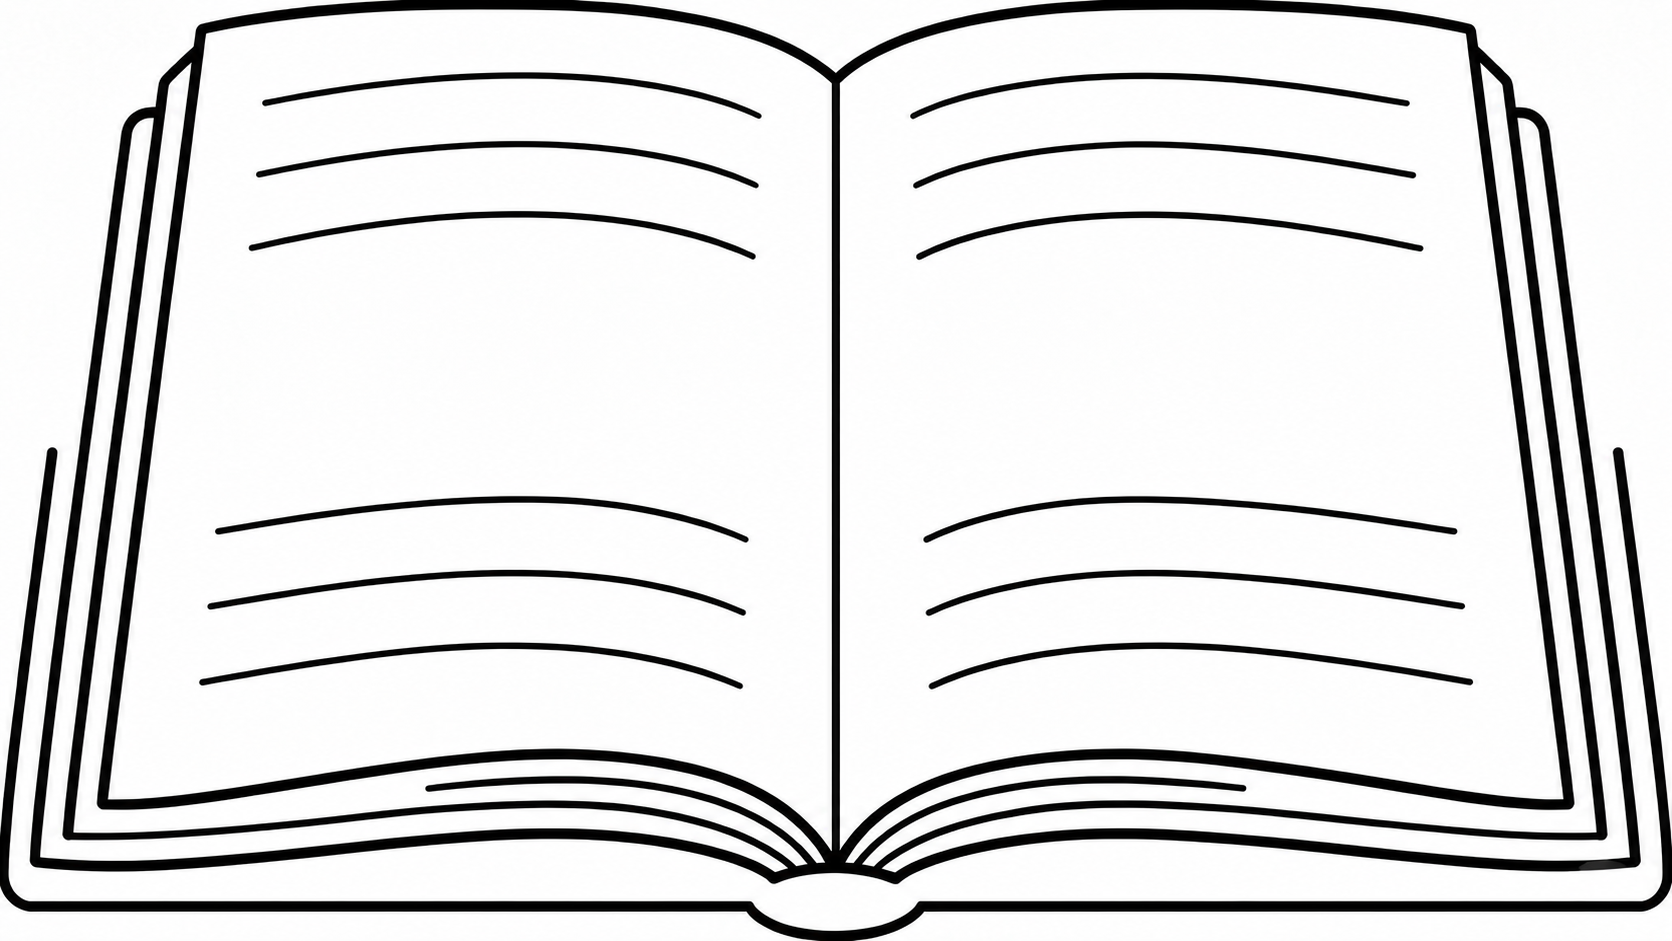
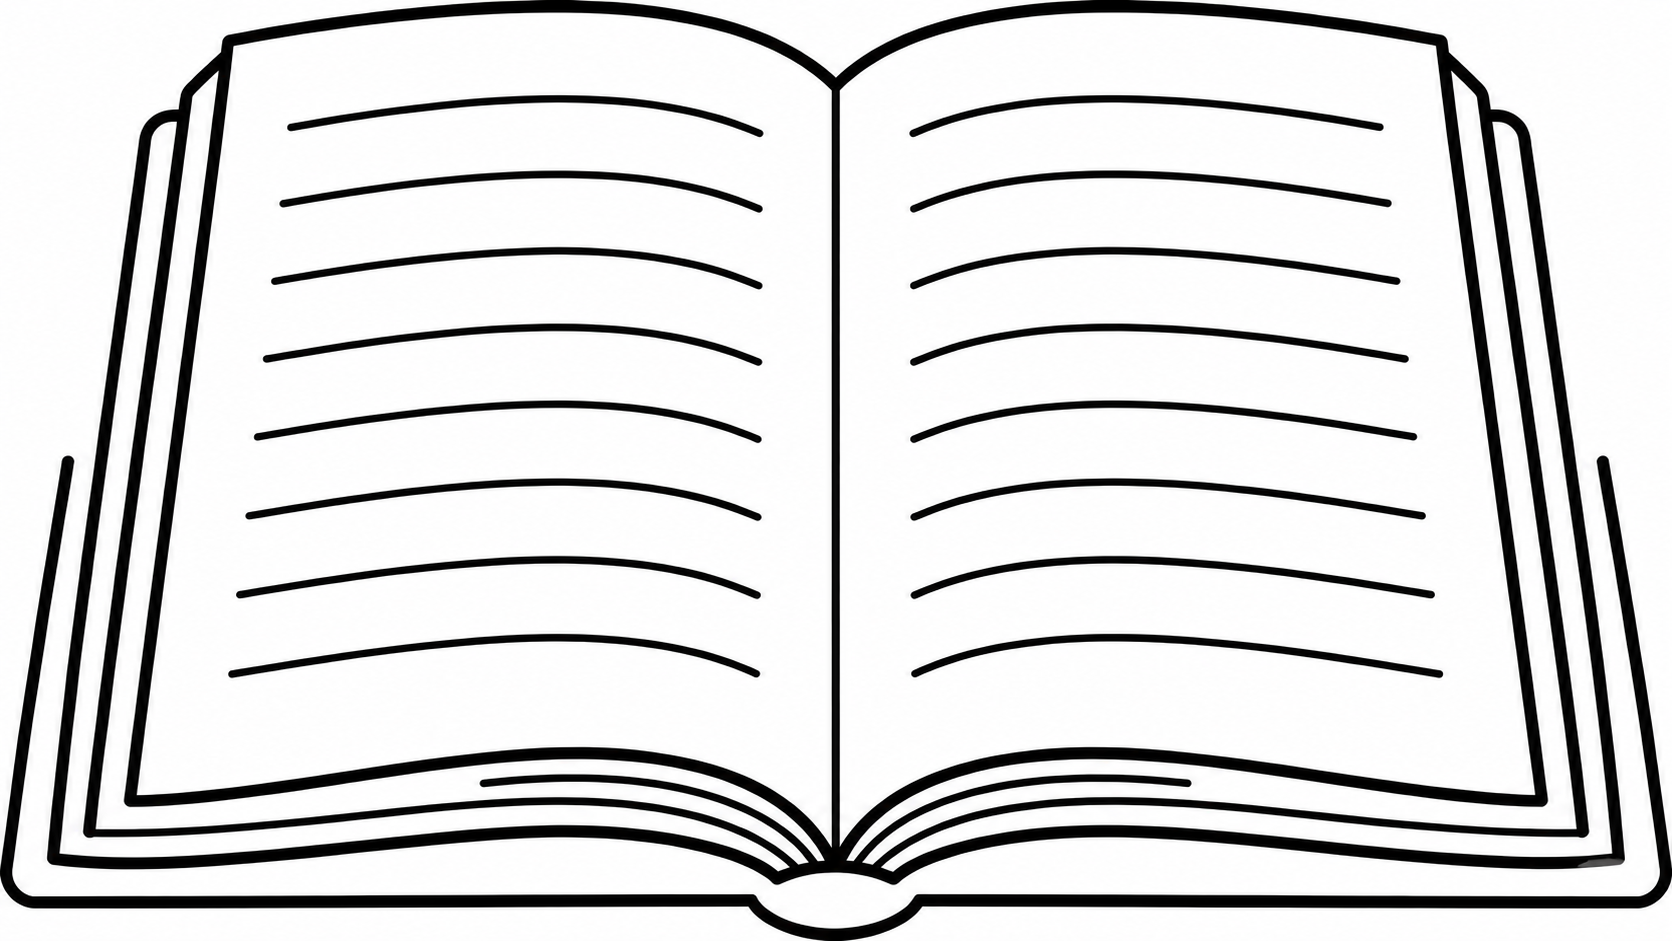
add video and audio image show

diff --git a/src/components/pages/archive/componentsArchive/MediaCard.jsx b/src/components/pages/archive/componentsArchive/MediaCard.jsx
@@ -13,6 +13,12 @@ import { roles } from "../../../../utilities/constant";
 
 const TYPE_ICON = { video: <VideoFileIcon />, audio: <AudioFileIcon />, text: <ArticleIcon /> };
 const TYPE_COLOR = { video: "primary", audio: "secondary", text: "success" };
+const TYPE_IMAGE = { video: "/images/video_image.png", audio: "/images/audio_image.png", text: "/images/book_image.png" };
+const TYPE_IMAGE_STYLE = {
+  video: { height: 160, scale: 1.20 },
+  audio: { height: 160, scale: 0.90 },
+  text:  { height: 160, scale: 0.80 },
+};
 
 const canDelete = (user, item) =>
   user?.role === roles.admin || (user?.role === roles.lecturer && item.uploader_id === user.id);
@@ -21,12 +27,8 @@ const MediaCard = ({ item, onView, user, onDelete }) => (
   <Card onClick={() => onView(item.id)} sx={{ height: "100%", display: "flex", flexDirection: "column", cursor: "pointer", transition: "transform 0.2s", "&:hover": { transform: "translateY(-4px)", boxShadow: 4 } }}>
     {item.thumbnail_url ? (
       <CardMedia component="img" height={160} image={item.thumbnail_url} alt={item.title} />
-    ) : item.media_type === "text" ? (
-      <CardMedia component="img" height={160} image="/images/book_image.png" alt={item.title} sx={{ objectFit: "contain", transform: "scale(0.90)", transformOrigin: "center center" }} />
     ) : (
-      <Box sx={{ height: 160, bgcolor: "grey.100", display: "flex", alignItems: "center", justifyContent: "center", color: "grey.400" }}>
-        {TYPE_ICON[item.media_type]}
-      </Box>
+      <CardMedia component="img" height={TYPE_IMAGE_STYLE[item.media_type].height} image={TYPE_IMAGE[item.media_type]} alt={item.title} sx={{ objectFit: "contain", transform: `scale(${TYPE_IMAGE_STYLE[item.media_type].scale})`, transformOrigin: "center center" }} />
     )}
     <CardContent sx={{ flexGrow: 1, pb: 0 }}>
       <Box sx={{ display: "flex", justifyContent: "space-between", alignItems: "flex-start", mb: 0.5 }}>

diff --git a/src/components/features/VideoRoom/VideoRoom.jsx b/src/components/features/VideoRoom/VideoRoom.jsx
@@ -39,7 +39,7 @@ const VideoRoom = ({ roomToken, userId, role, onEnd }) => {
 
     pc.onicecandidate = (e) => {
       if (e.candidate) {
-        socketRef.current?.emit("ice-candidate", { roomToken, candidate: e.candidate, to: targetId });
+        socketRef.current?.emit("ice-candidate", { to: targetId, candidate: e.candidate });
       }
     };
 
@@ -58,11 +58,11 @@ const VideoRoom = ({ roomToken, userId, role, onEnd }) => {
       setConnected(true);
     });
 
-    socket.on("user-joined", async ({ userId: remoteId }) => {
+    socket.on("user-joined", async ({ socketId: remoteId }) => {
       const pc = createPeer(remoteId);
       const offer = await pc.createOffer();
       await pc.setLocalDescription(offer);
-      socket.emit("offer", { roomToken, offer, to: remoteId });
+      socket.emit("offer", { to: remoteId, offer });
     });
 
     socket.on("offer", async ({ offer, from }) => {
@@ -70,7 +70,7 @@ const VideoRoom = ({ roomToken, userId, role, onEnd }) => {
       await pc.setRemoteDescription(offer);
       const answer = await pc.createAnswer();
       await pc.setLocalDescription(answer);
-      socket.emit("answer", { roomToken, answer, to: from });
+      socket.emit("answer", { to: from, answer });
     });
 
     socket.on("answer", async ({ answer, from }) => {
@@ -81,7 +81,7 @@ const VideoRoom = ({ roomToken, userId, role, onEnd }) => {
       await peersRef.current[from]?.addIceCandidate(candidate);
     });
 
-    socket.on("user-left", ({ userId: leftId }) => removeStream(leftId));
+    socket.on("user-left", ({ socketId: leftId }) => removeStream(leftId));
     socket.on("session-ended", () => onEnd?.());
 
     return () => {

diff --git a/src/components/pages/mediaView/MediaViewPage.jsx b/src/components/pages/mediaView/MediaViewPage.jsx
@@ -57,7 +57,7 @@ const MediaViewPage = () => {
             <TextViewer mediaId={media.id} />
           ) : (
             <MediaPlayer
-              url={media.s3_key}
+              url={`/api/media/${media.id}/stream`}
               bookmarks={bookmarks}
               duration={media.duration_seconds}
               onProgress={(sec) => { setCurrentTime(sec); handleSaveProgress(sec); }}